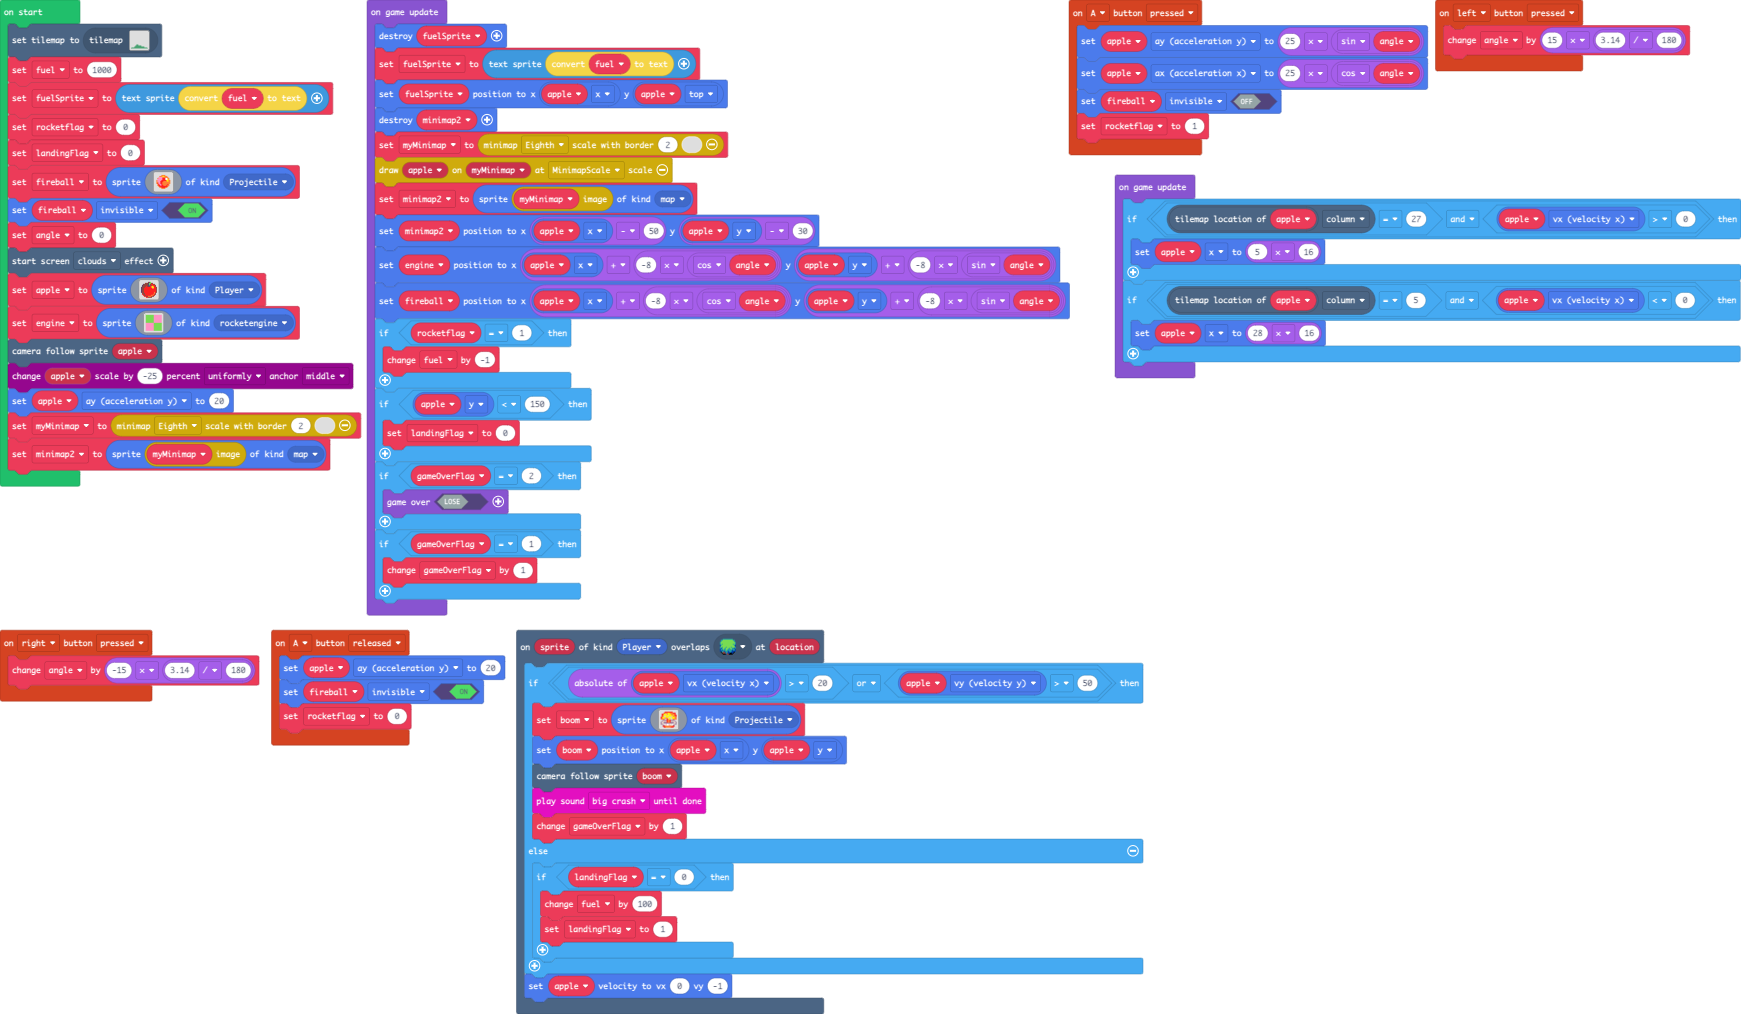
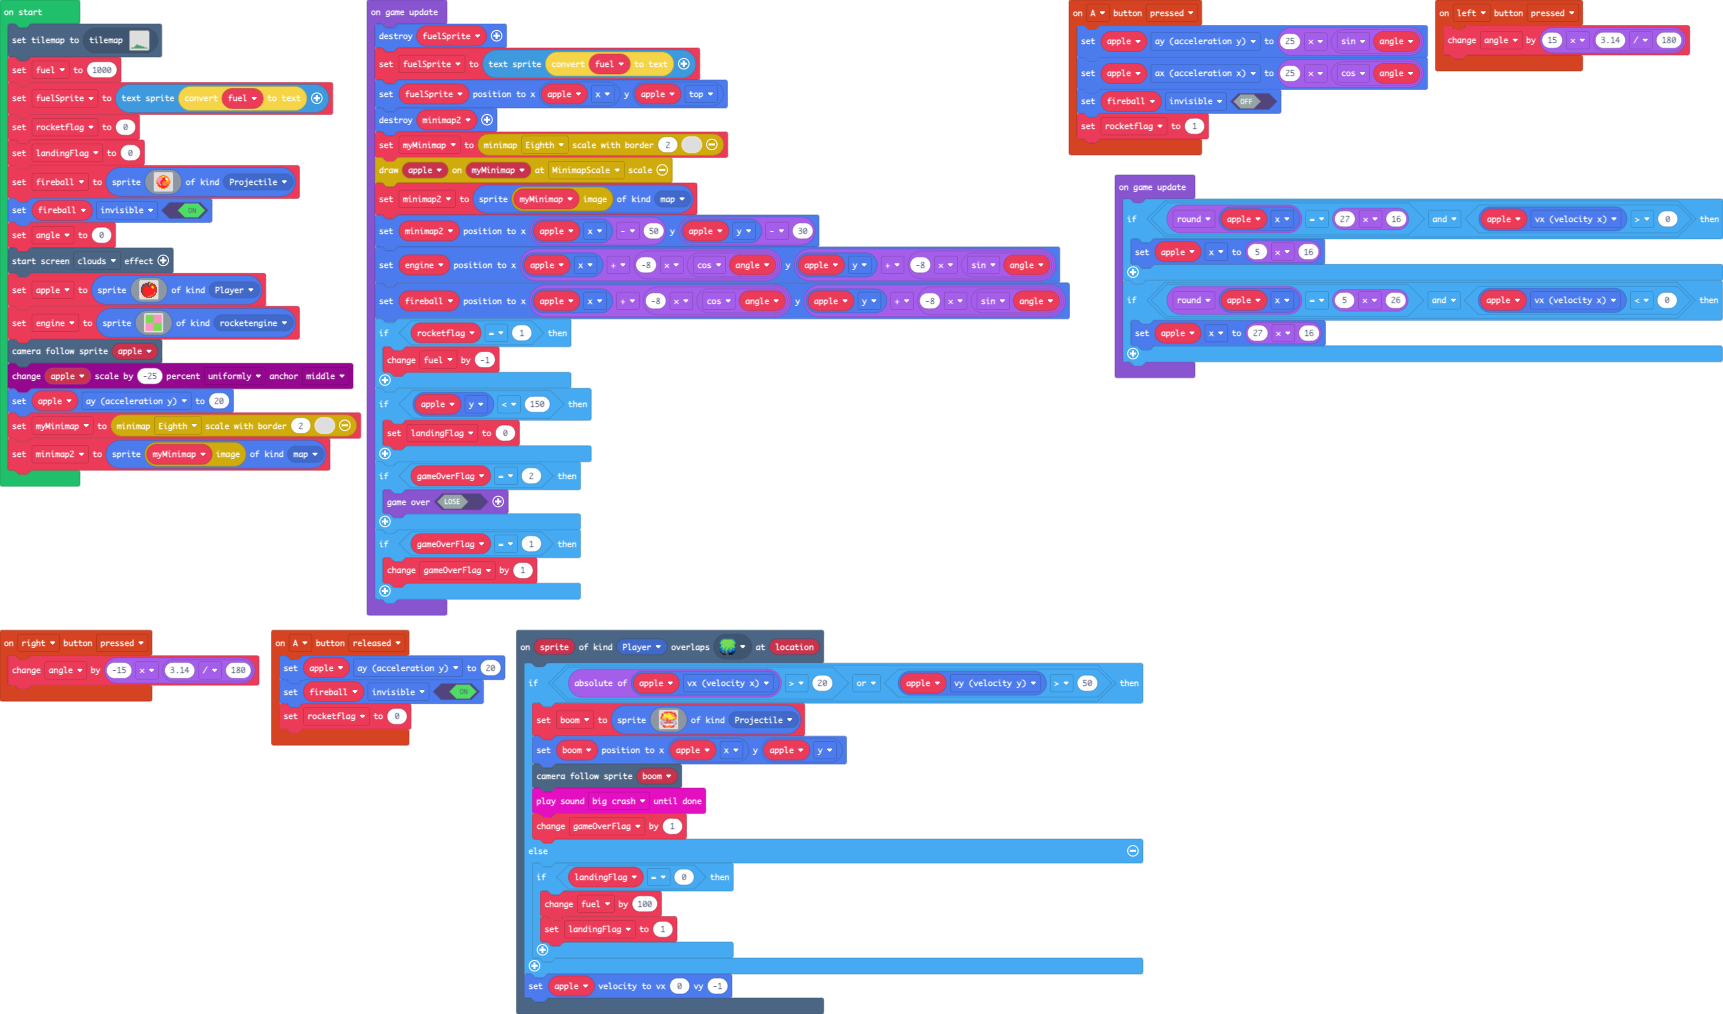
still working on wrapping

diff --git a/main.ts b/main.ts
@@ -136,10 +136,10 @@ game.onUpdate(function () {
     }
 })
 game.onUpdate(function () {
-    if (apple.tilemapLocation().column == 27 && apple.vx > 0) {
+    if (Math.round(apple.x) == 27 * 16 && apple.vx > 0) {
         apple.x = 5 * 16
     }
-    if (apple.tilemapLocation().column == 5 && apple.vx < 0) {
-        apple.x = 28 * 16
+    if (Math.round(apple.x) == 5 * 26 && apple.vx < 0) {
+        apple.x = 27 * 16
     }
 })
